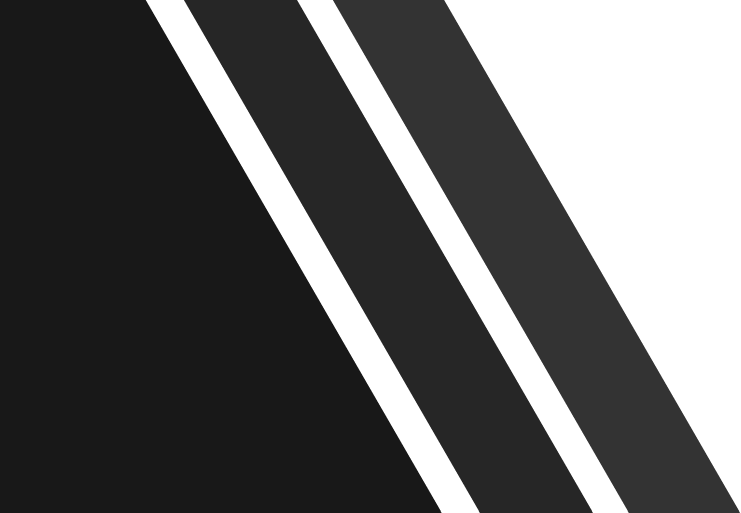
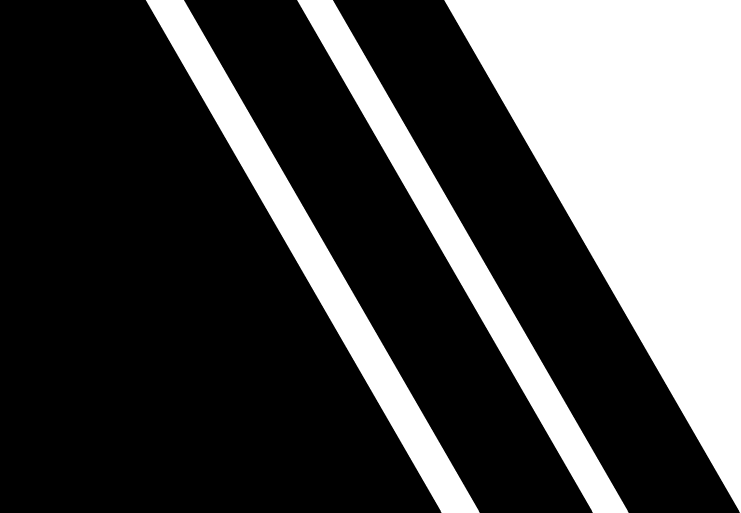
Updated title/nav bar.

diff --git a/web/index.html b/web/index.html
@@ -15,8 +15,8 @@
 			<div class="container-fluid head-content">
 				<div class="row row-nav">
 					<ul class="nav navbar-nav">
-						<li><a href="#philo">Philosophy</a></li>
-						<li><a href="#mugs">Mugs</a></li>
+						<li><a href="#philo">\\\ Philosophy</a></li>
+						<li><a href="#mugs">\\\ Mugs</a></li>
 					</ul>
 				</div>
 			</div>

diff --git a/web/css/main.css b/web/css/main.css
@@ -52,7 +52,7 @@ p {
 }
 
 .row-nav {
-	background-color: rgba(24,24,24,0.5);
+	background-color: rgba(0,0,0,0.5);
 }
 
 .nav li a {
